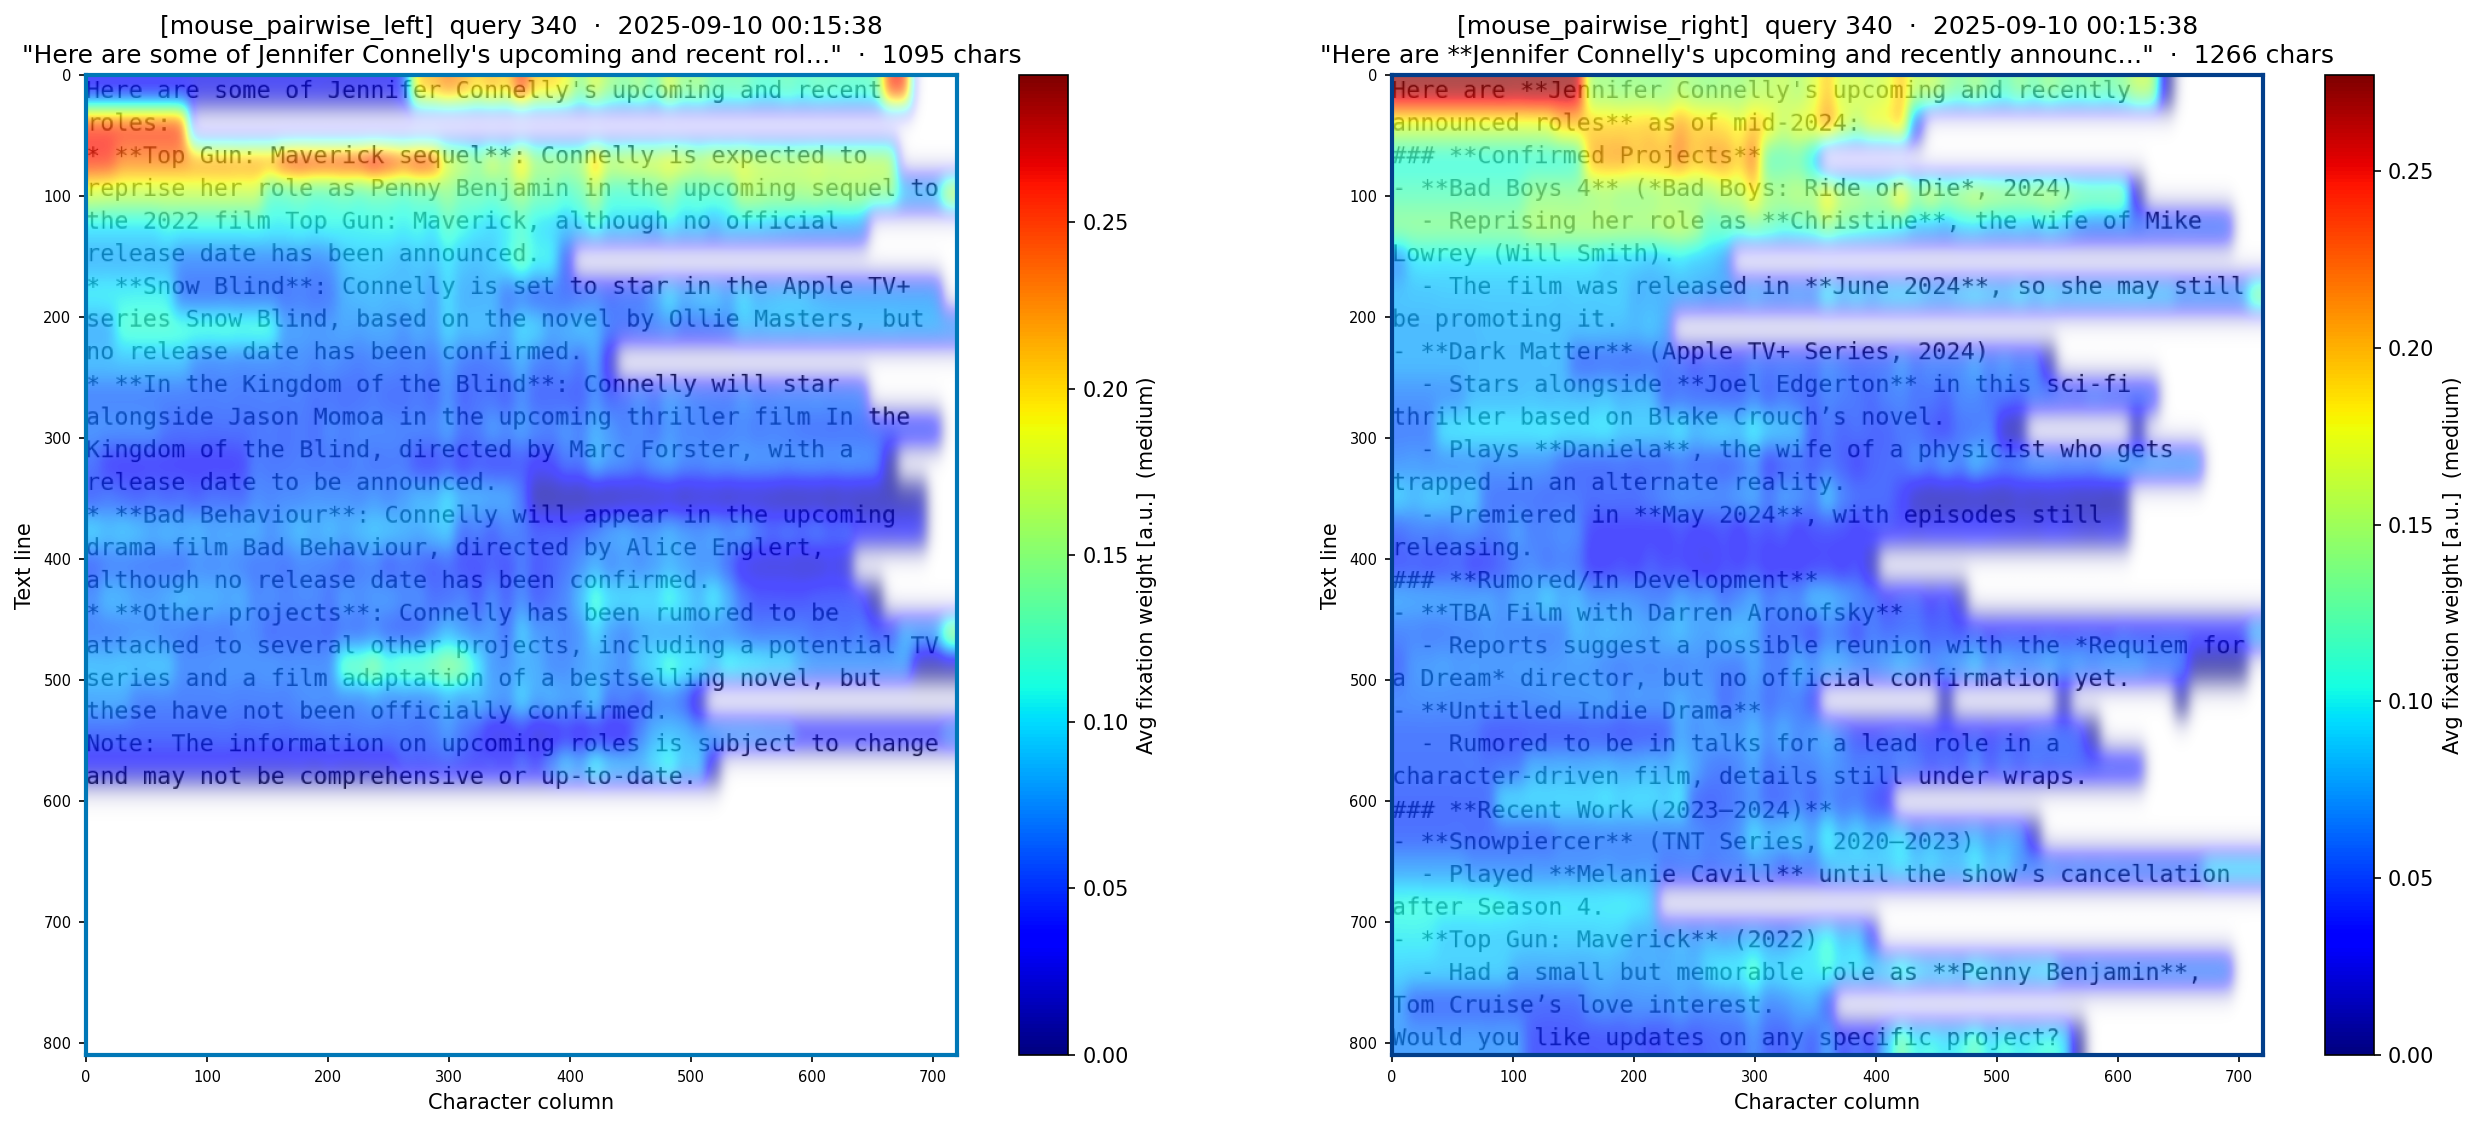
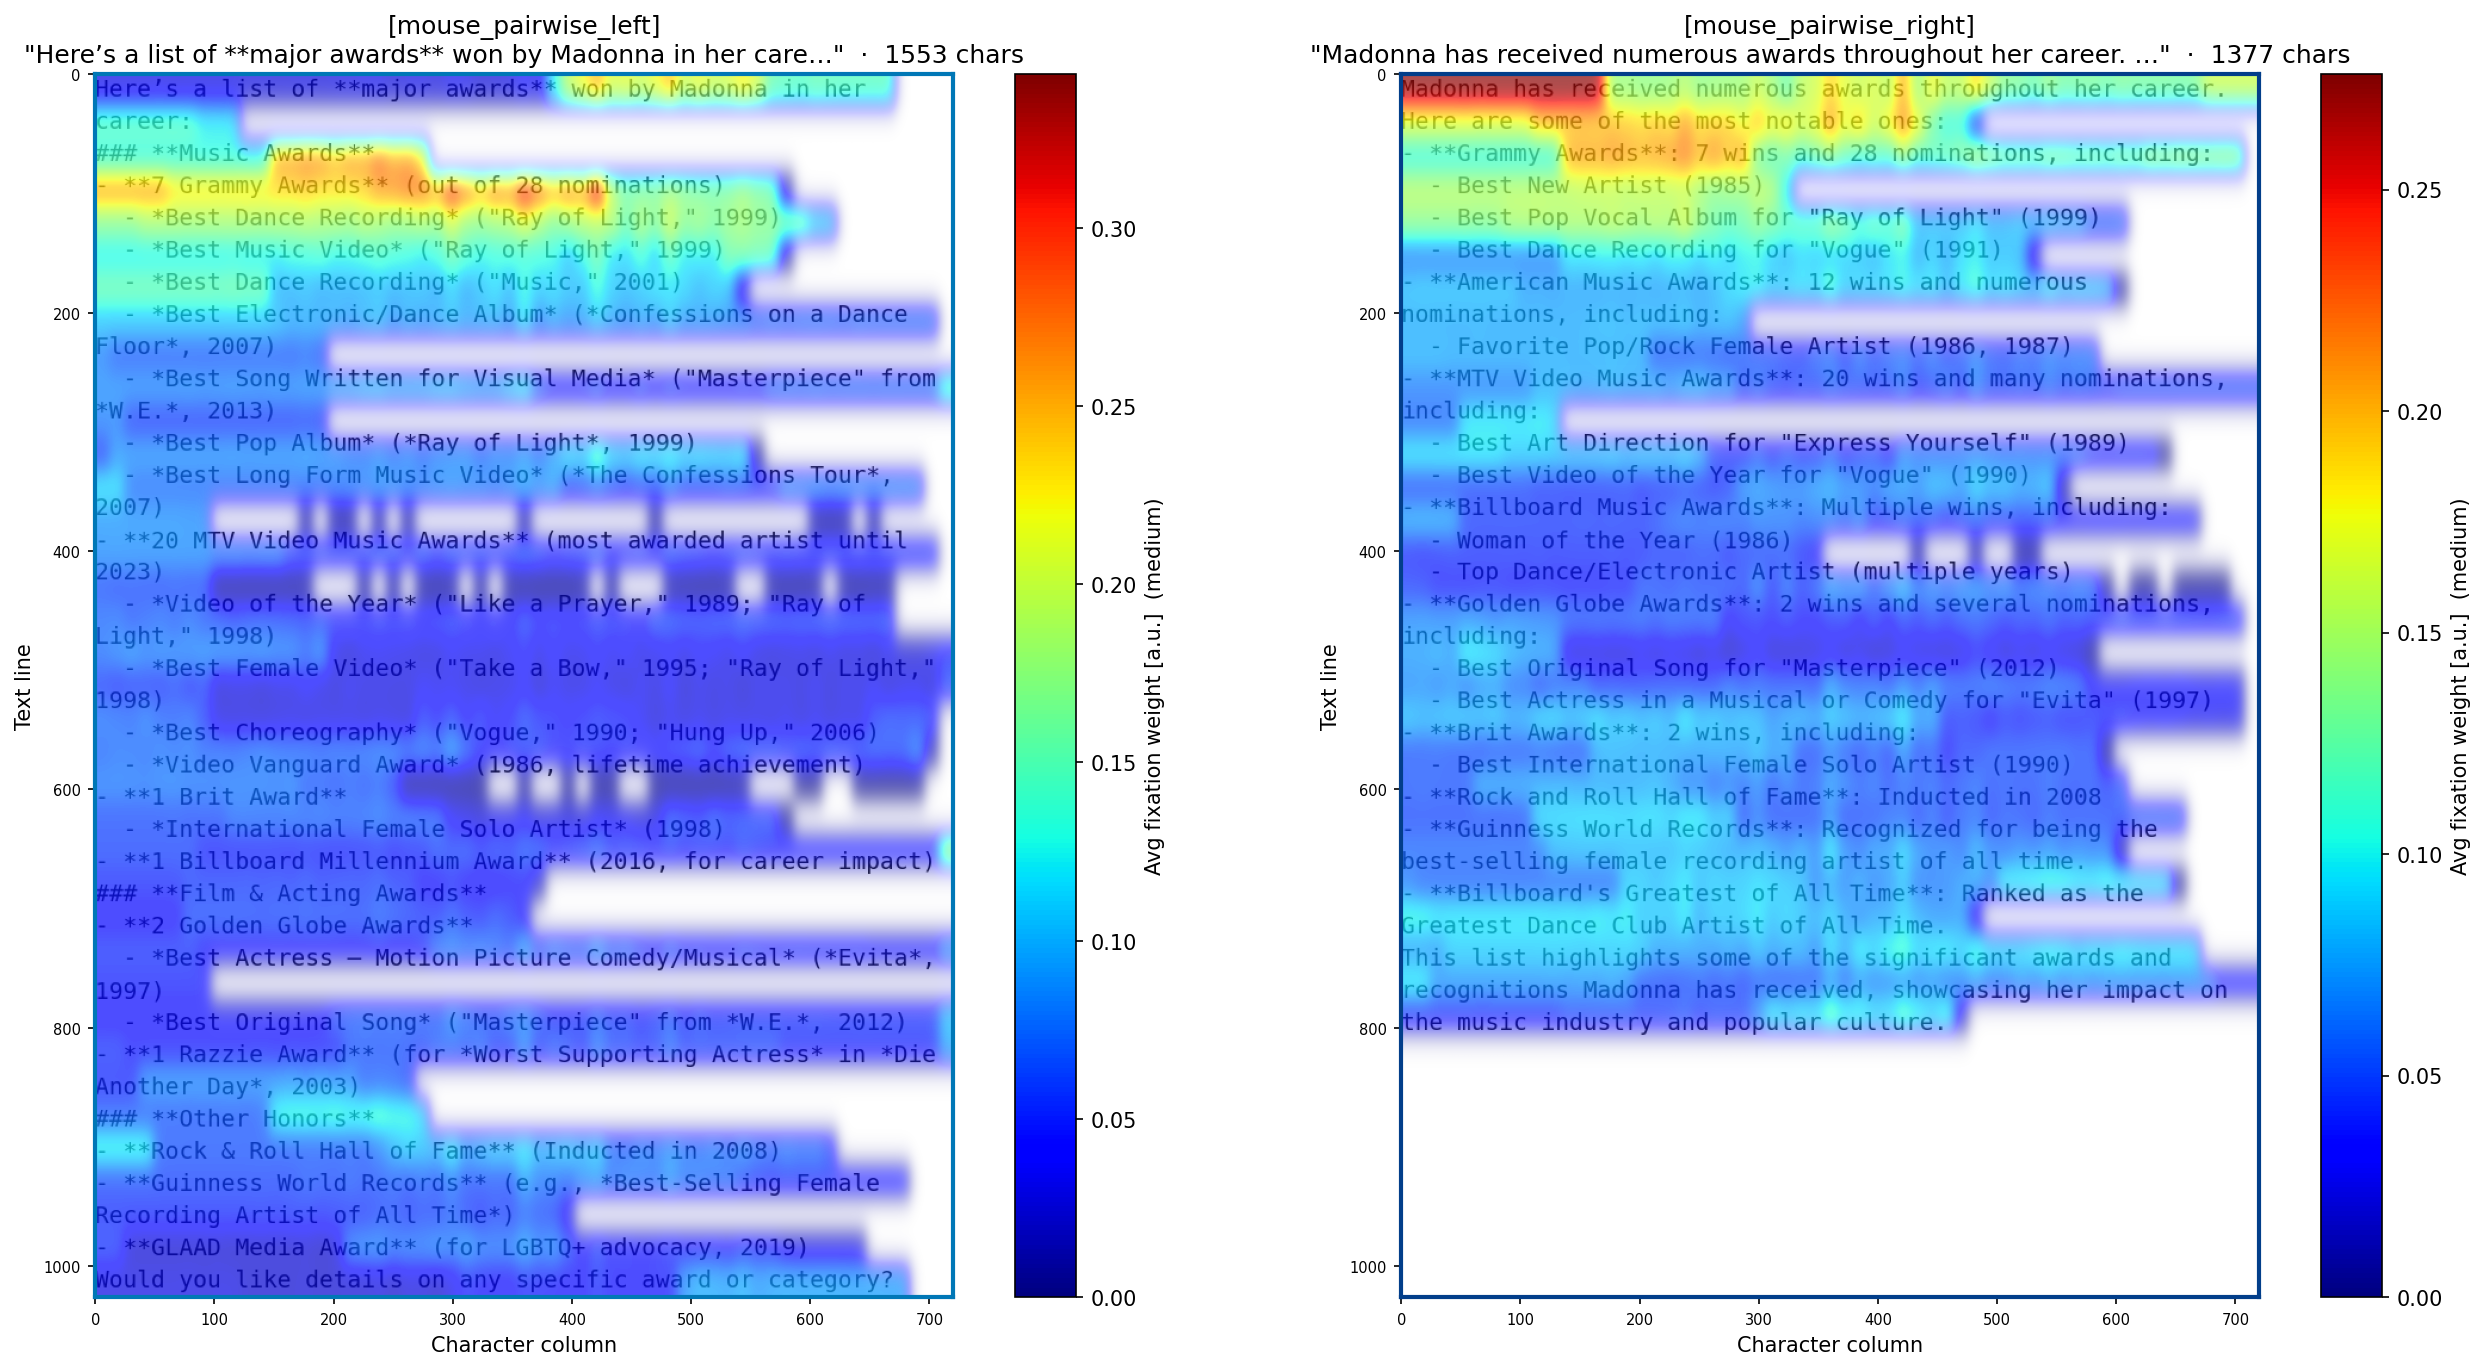
removing text from heatmap

diff --git a/src/vis/gaze_pairwise_medium_pm_heatmap.py b/src/vis/gaze_pairwise_medium_pm_heatmap.py
@@ -68,7 +68,7 @@ CHAR_SCALE, LINE_SCALE = _measure_char_dims(FONT_SIZE)  # width / line-height in
 N_TOTAL     = 8000  # total weighted gaze samples per panel
 JITTER_STD  = 1  # Gaussian position jitter (char units) for smooth interpolation
 
-RANDOM_SEED = 35  # set to int for reproducible pair selection
+RANDOM_SEED = 81  # set to int for reproducible pair selection
 EXCLUDE_BAD_WORKERS = True   # set False to include all workers
 _qc = "filtered" if EXCLUDE_BAD_WORKERS else "all"
 
@@ -361,7 +361,7 @@ pm.plotting.heatmap(
     origin='upper',
     show_cbar=True,
     cbar_label=f'Avg fixation weight [a.u.]  ({LENGTH_CATEGORY})',
-    title=(f'[{SRC_LEFT}]  query {query_id}  ·  {ts}\n'
+    title=(f'[{SRC_LEFT}]\n'
            f'"{short1}…"  ·  {len(text1)} chars'),
     xlabel='Character column',
     ylabel='Text line',
@@ -384,7 +384,7 @@ pm.plotting.heatmap(
     origin='upper',
     show_cbar=True,
     cbar_label=f'Avg fixation weight [a.u.]  ({LENGTH_CATEGORY})',
-    title=(f'[{SRC_RIGHT}]  query {query_id}  ·  {ts}\n'
+    title=(f'[{SRC_RIGHT}]\n'
            f'"{short2}…"  ·  {len(text2)} chars'),
     xlabel='Character column',
     ylabel='Text line',
